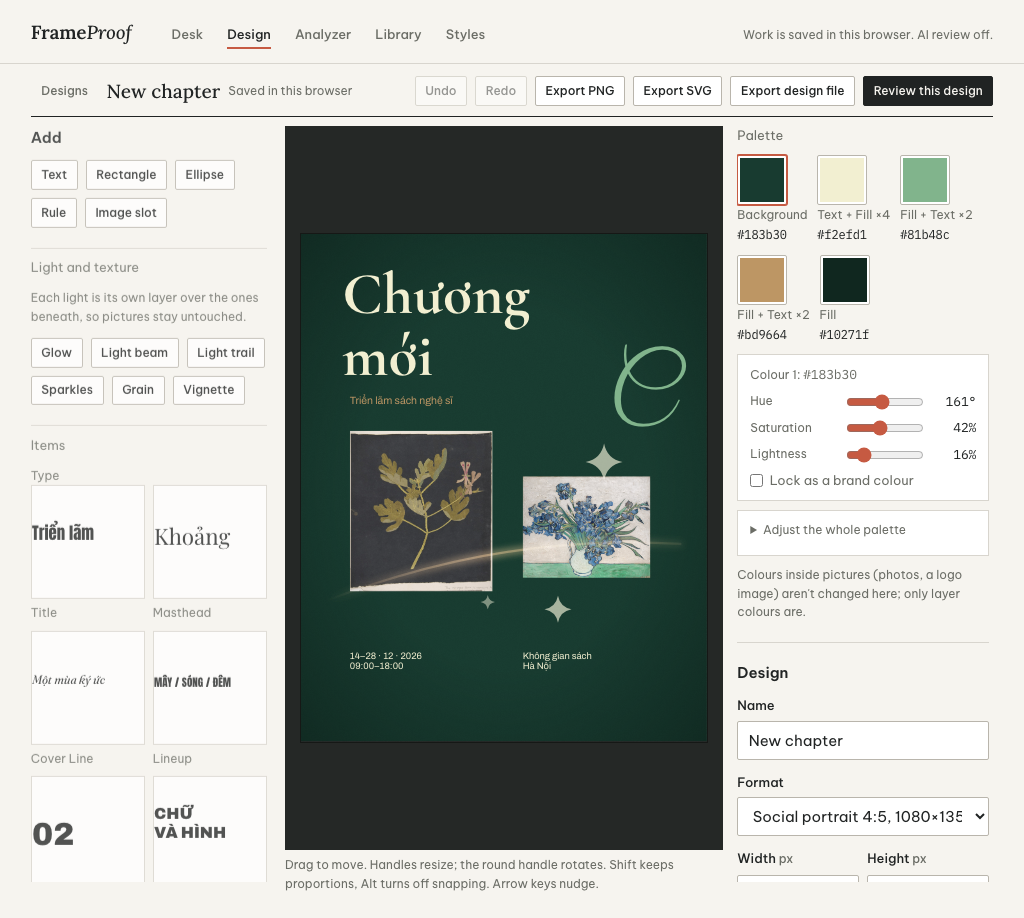
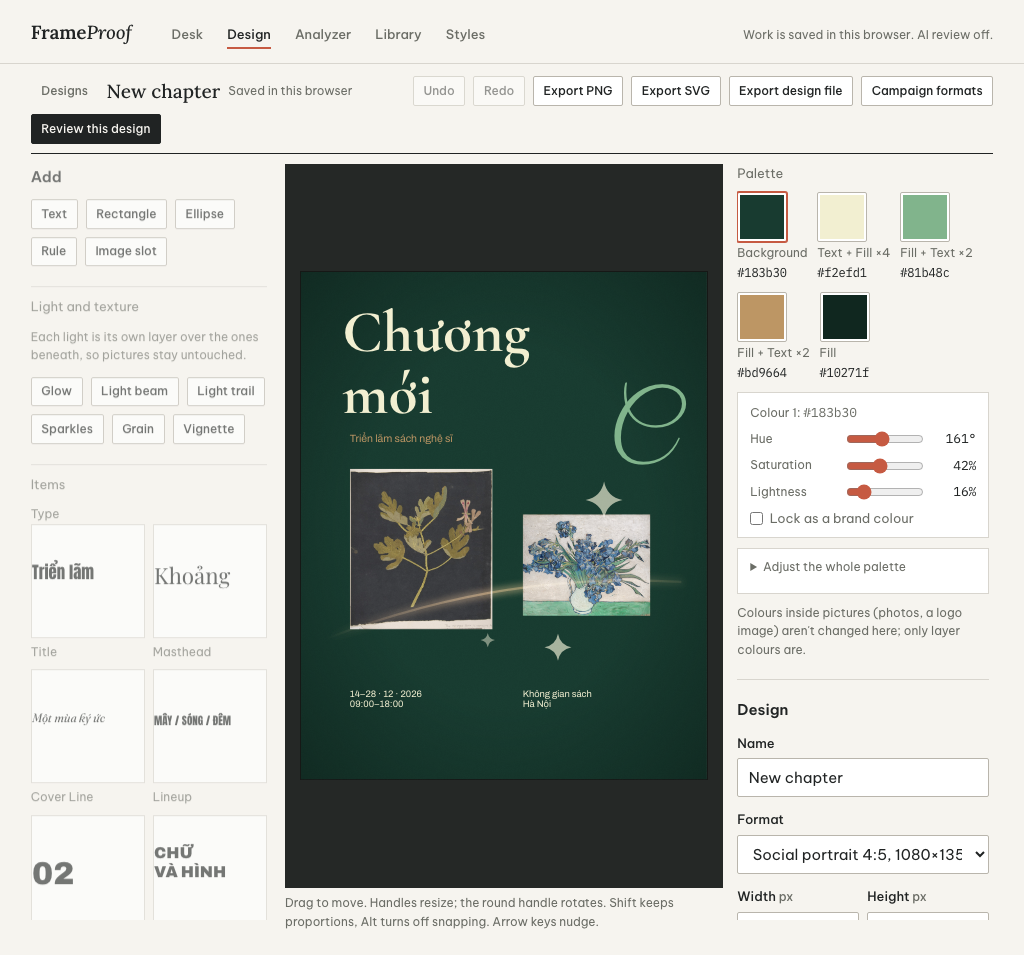
Docs and QA screens for campaign formats and background removal

diff --git a/docs/DESIGN_EDITOR.md b/docs/DESIGN_EDITOR.md
@@ -95,6 +95,32 @@ SVG export saves it with fonts and images embedded, PNG export rasterises it. Te
 `layoutText` (`layout.ts`) with an injected `measure`, so lines break in the same place on screen and in exports;
 text taller than its box is never clipped and the editor says so.
 
+## Campaign formats
+
+`/campaign?id=` (opened from the editor's "Campaign formats", which saves first) recomposes one design for square,
+4:5, story, banner, page cover, an 80 × 180 cm standee and a circle-safe avatar (`src/lib/design/campaign.ts`).
+Rules, not stretching: words, fonts, colours, pictures and brand locks are kept; only placement and scale change.
+Strategies: `anchor` (each layer keeps the edge or centre it was aligned to) and `split` / `split-mirrored`
+(pictures in one zone, type in the other). Content is recomposed into `safeBox(format)`: the square inside the
+avatar circle, the story area between the platform's top and bottom bands (approximate). Full-bleed layers refill
+the canvas. Every scaled size is capped at the schema limit, and a capped layer is named in the notes. Each saved
+variant is a new design with `sourceDesignId`. Notes are honest: overflow, very small type, crop by the circle
+(using rotated corners), and the standee's real print DPI (about 85 at 2667 × 6000 px) with a pointer to SVG.
+
+Not yet: a transparent avatar frame with a non-destructive centre cut-out (needs a transparent-canvas schema
+change), and per-format recipes with group distribution for several info or photo layers
+(see the Codex/Gemini campaign handoff).
+
+## Image tools
+
+Contract: `src/lib/image-tools/types.ts`. Runtimes run in a worker in the browser; the runtime is served
+same-origin (`npm run prepare:image-tools`, run before dev and build); weights are fetched from a pinned
+revision only after the user starts the tool. Background removal (BEN2) is wired in the Inspector for picture
+layers (`CutoutDialog`): a confirmation names the model, licence, size and source; there's progress with Cancel;
+the preview compares the result with the original and states its real size. Accepting stores a new resource with
+`derivedFrom: { resourceId, tool, model }` and switches the layer as one undo step. Inpainting (LaMa) gets the same
+treatment, plus a brush mask, once its module lands; until then it isn't offered.
+
 ## Ownership
 
 | Area | Owner | Files |
@@ -107,8 +133,9 @@ text taller than its box is never clipped and the editor says so.
 | Resource file validation (font and image magic bytes, limits) | Codex CLI | `src/lib/design/resource-validate.ts`, `tests/unit/resource-validate.test.ts` |
 | Poster font pack (OFL, from github.com/google/fonts): manifest, licences, Vietnamese coverage | Codex desktop | delivered to `work/poster-fonts`; Claude integrates into `fonts.ts` |
 | Palette tools (HSL, linked colours, roles), layer roles on the pack, AI direction route | Codex CLI | `src/lib/design/palette.ts`, `src/lib/ai/direction.ts`, `src/app/api/direction/route.ts`, tests |
-| Deterministic composer, compose flow UI, palette panel, Desk gallery, motion, LaMa inpaint | Claude Code | `src/lib/design/compose.ts`, `src/app/compose/*`, `src/lib/design/inpaint*` |
-| BEN2 background-removal runtime prototype, resource packs, acceptance | Codex desktop | isolated prototype → handed to Claude to integrate |
+| Deterministic composer, compose flow UI, palette panel, Desk gallery, campaign formats, image-tool UI, motion | Claude Code | `src/lib/design/{compose,campaign,doc-palette}.ts`, `src/app/{compose,campaign}/*`, `src/components/design/CutoutDialog.tsx` |
+| Image-tool runtimes (BEN2 cutout, LaMa inpaint), workers, runtime packaging | Codex desktop | `src/lib/image-tools/*` except `types.ts`, `scripts/prepare-image-tools.mjs`, `package.json` deps |
+| API request guard (Origin, Fetch Metadata, multipart) | Codex desktop | `src/lib/security/request.ts`, `tests/unit/security-request.test.ts` |
 | Independent review, licence check, acceptance | Codex desktop | `docs/reviews/*` |
 
 Nobody edits another owner's files; changes go through a note to the owner.
